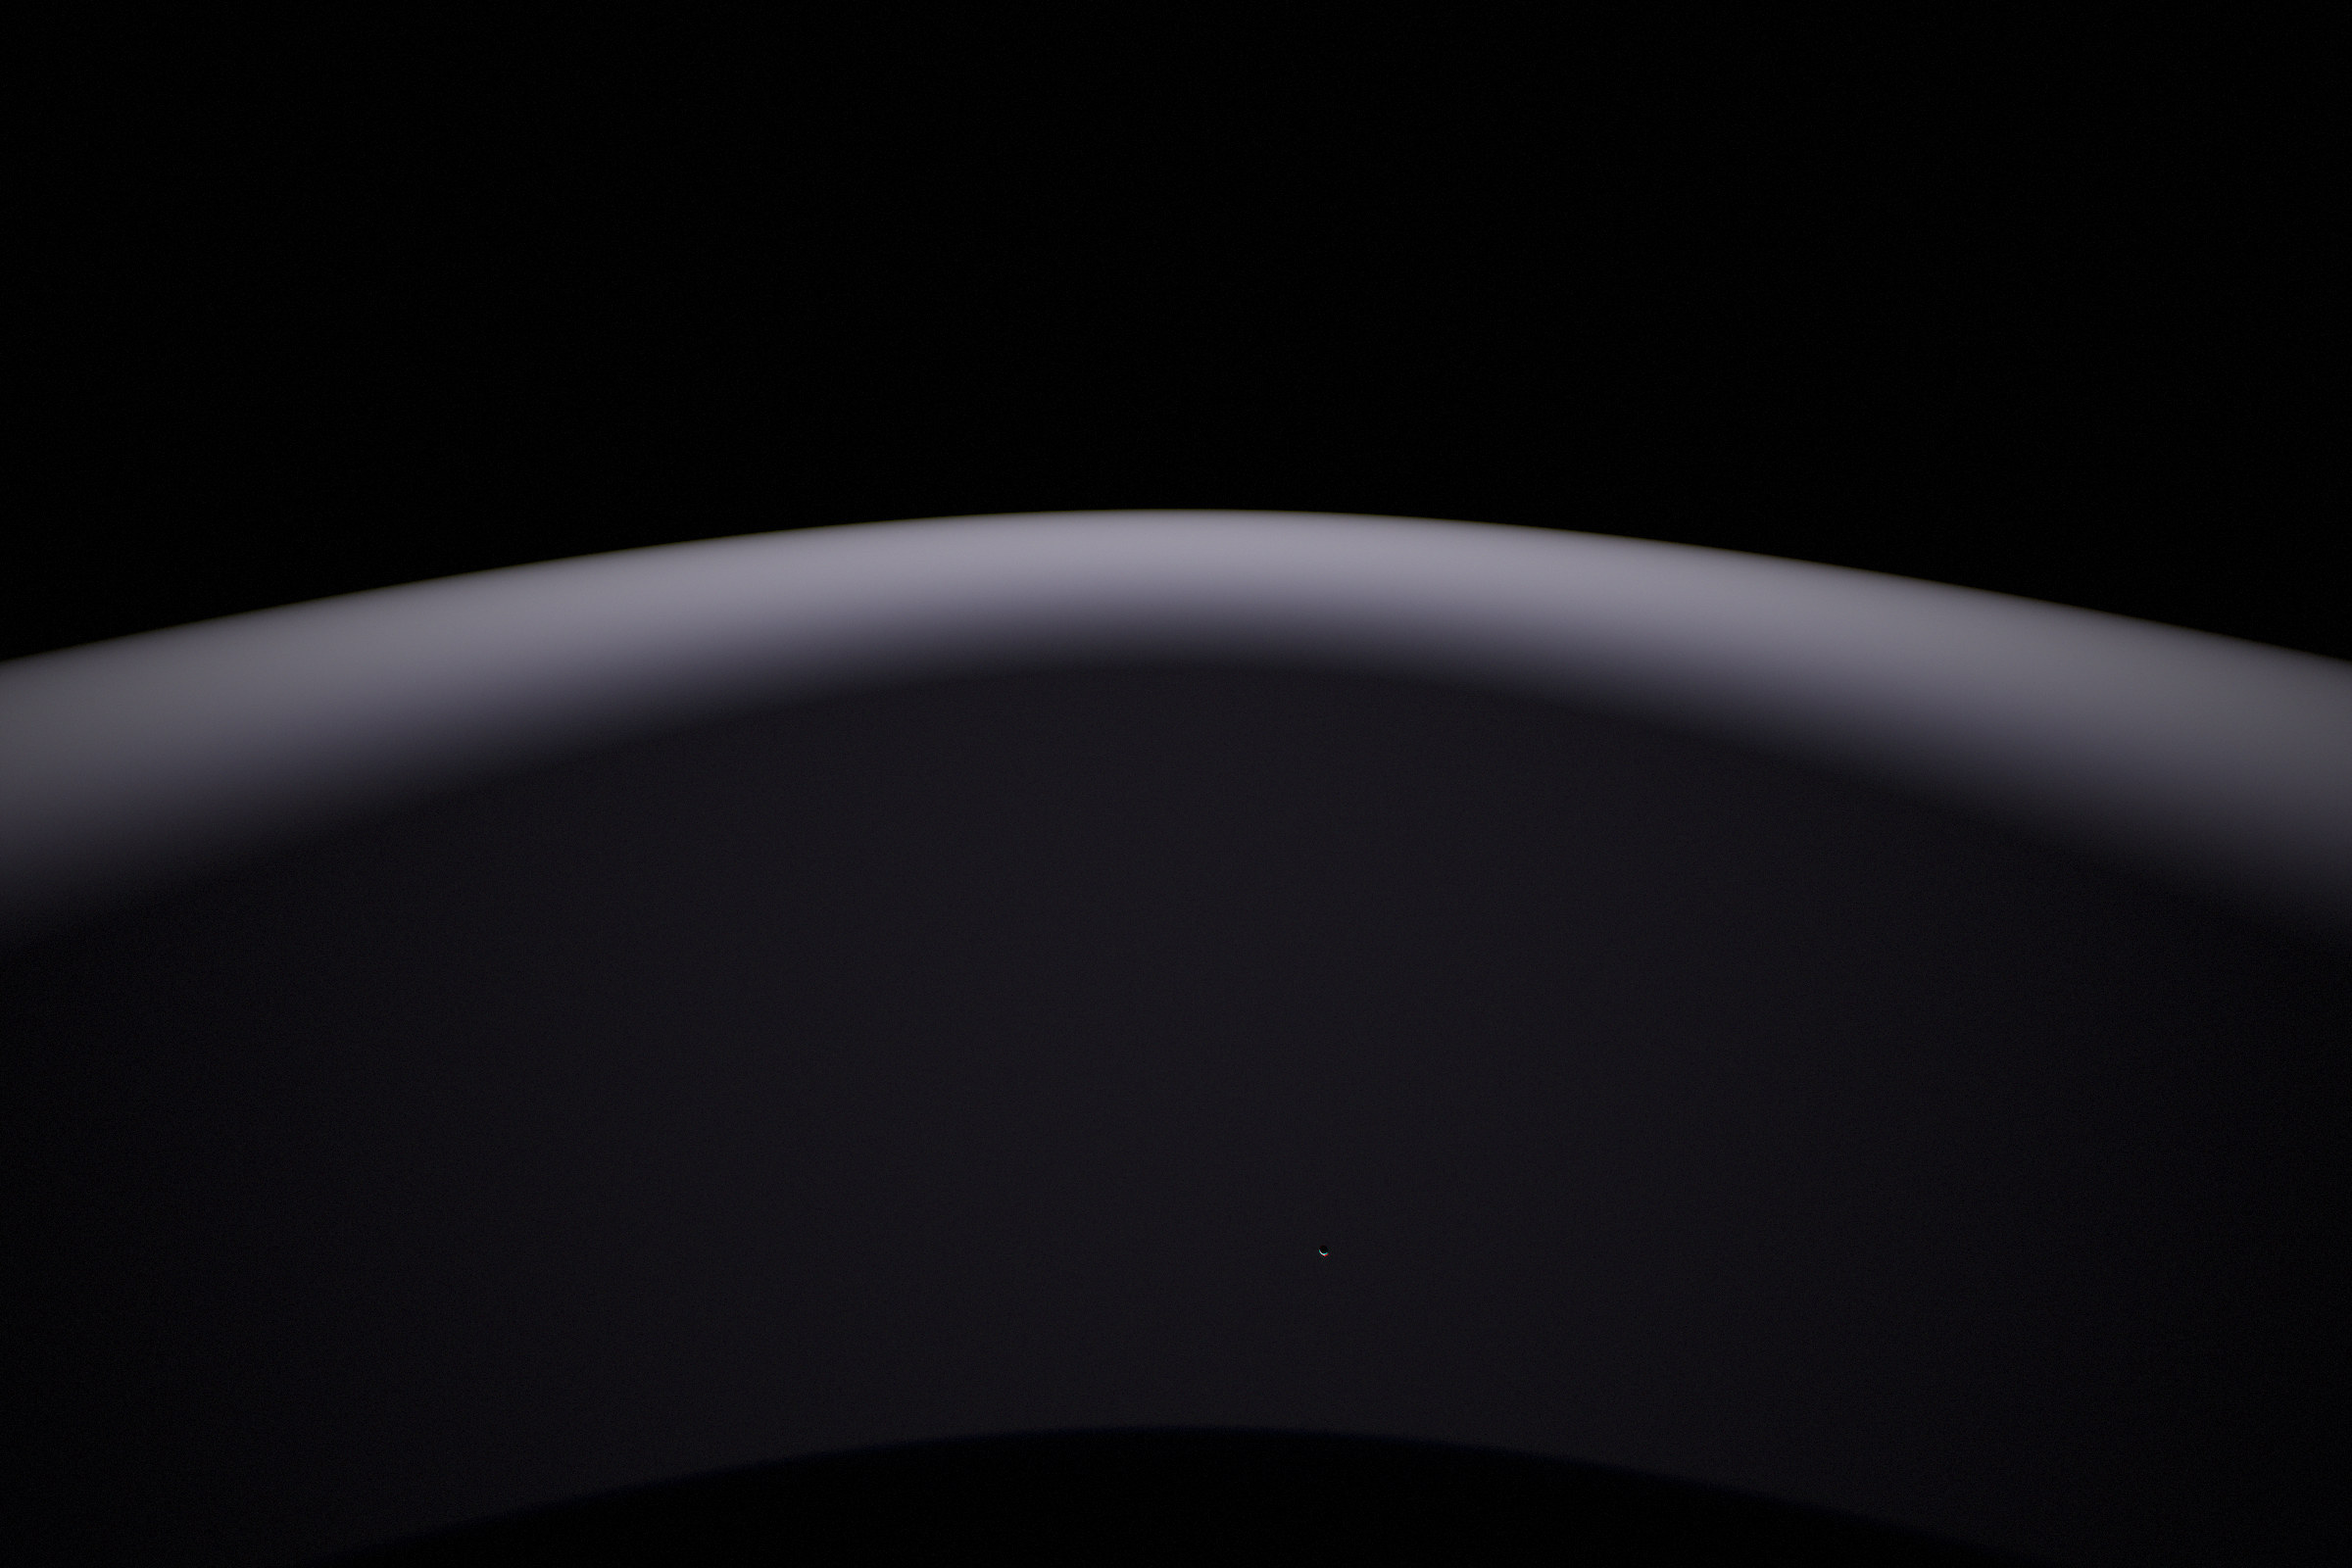
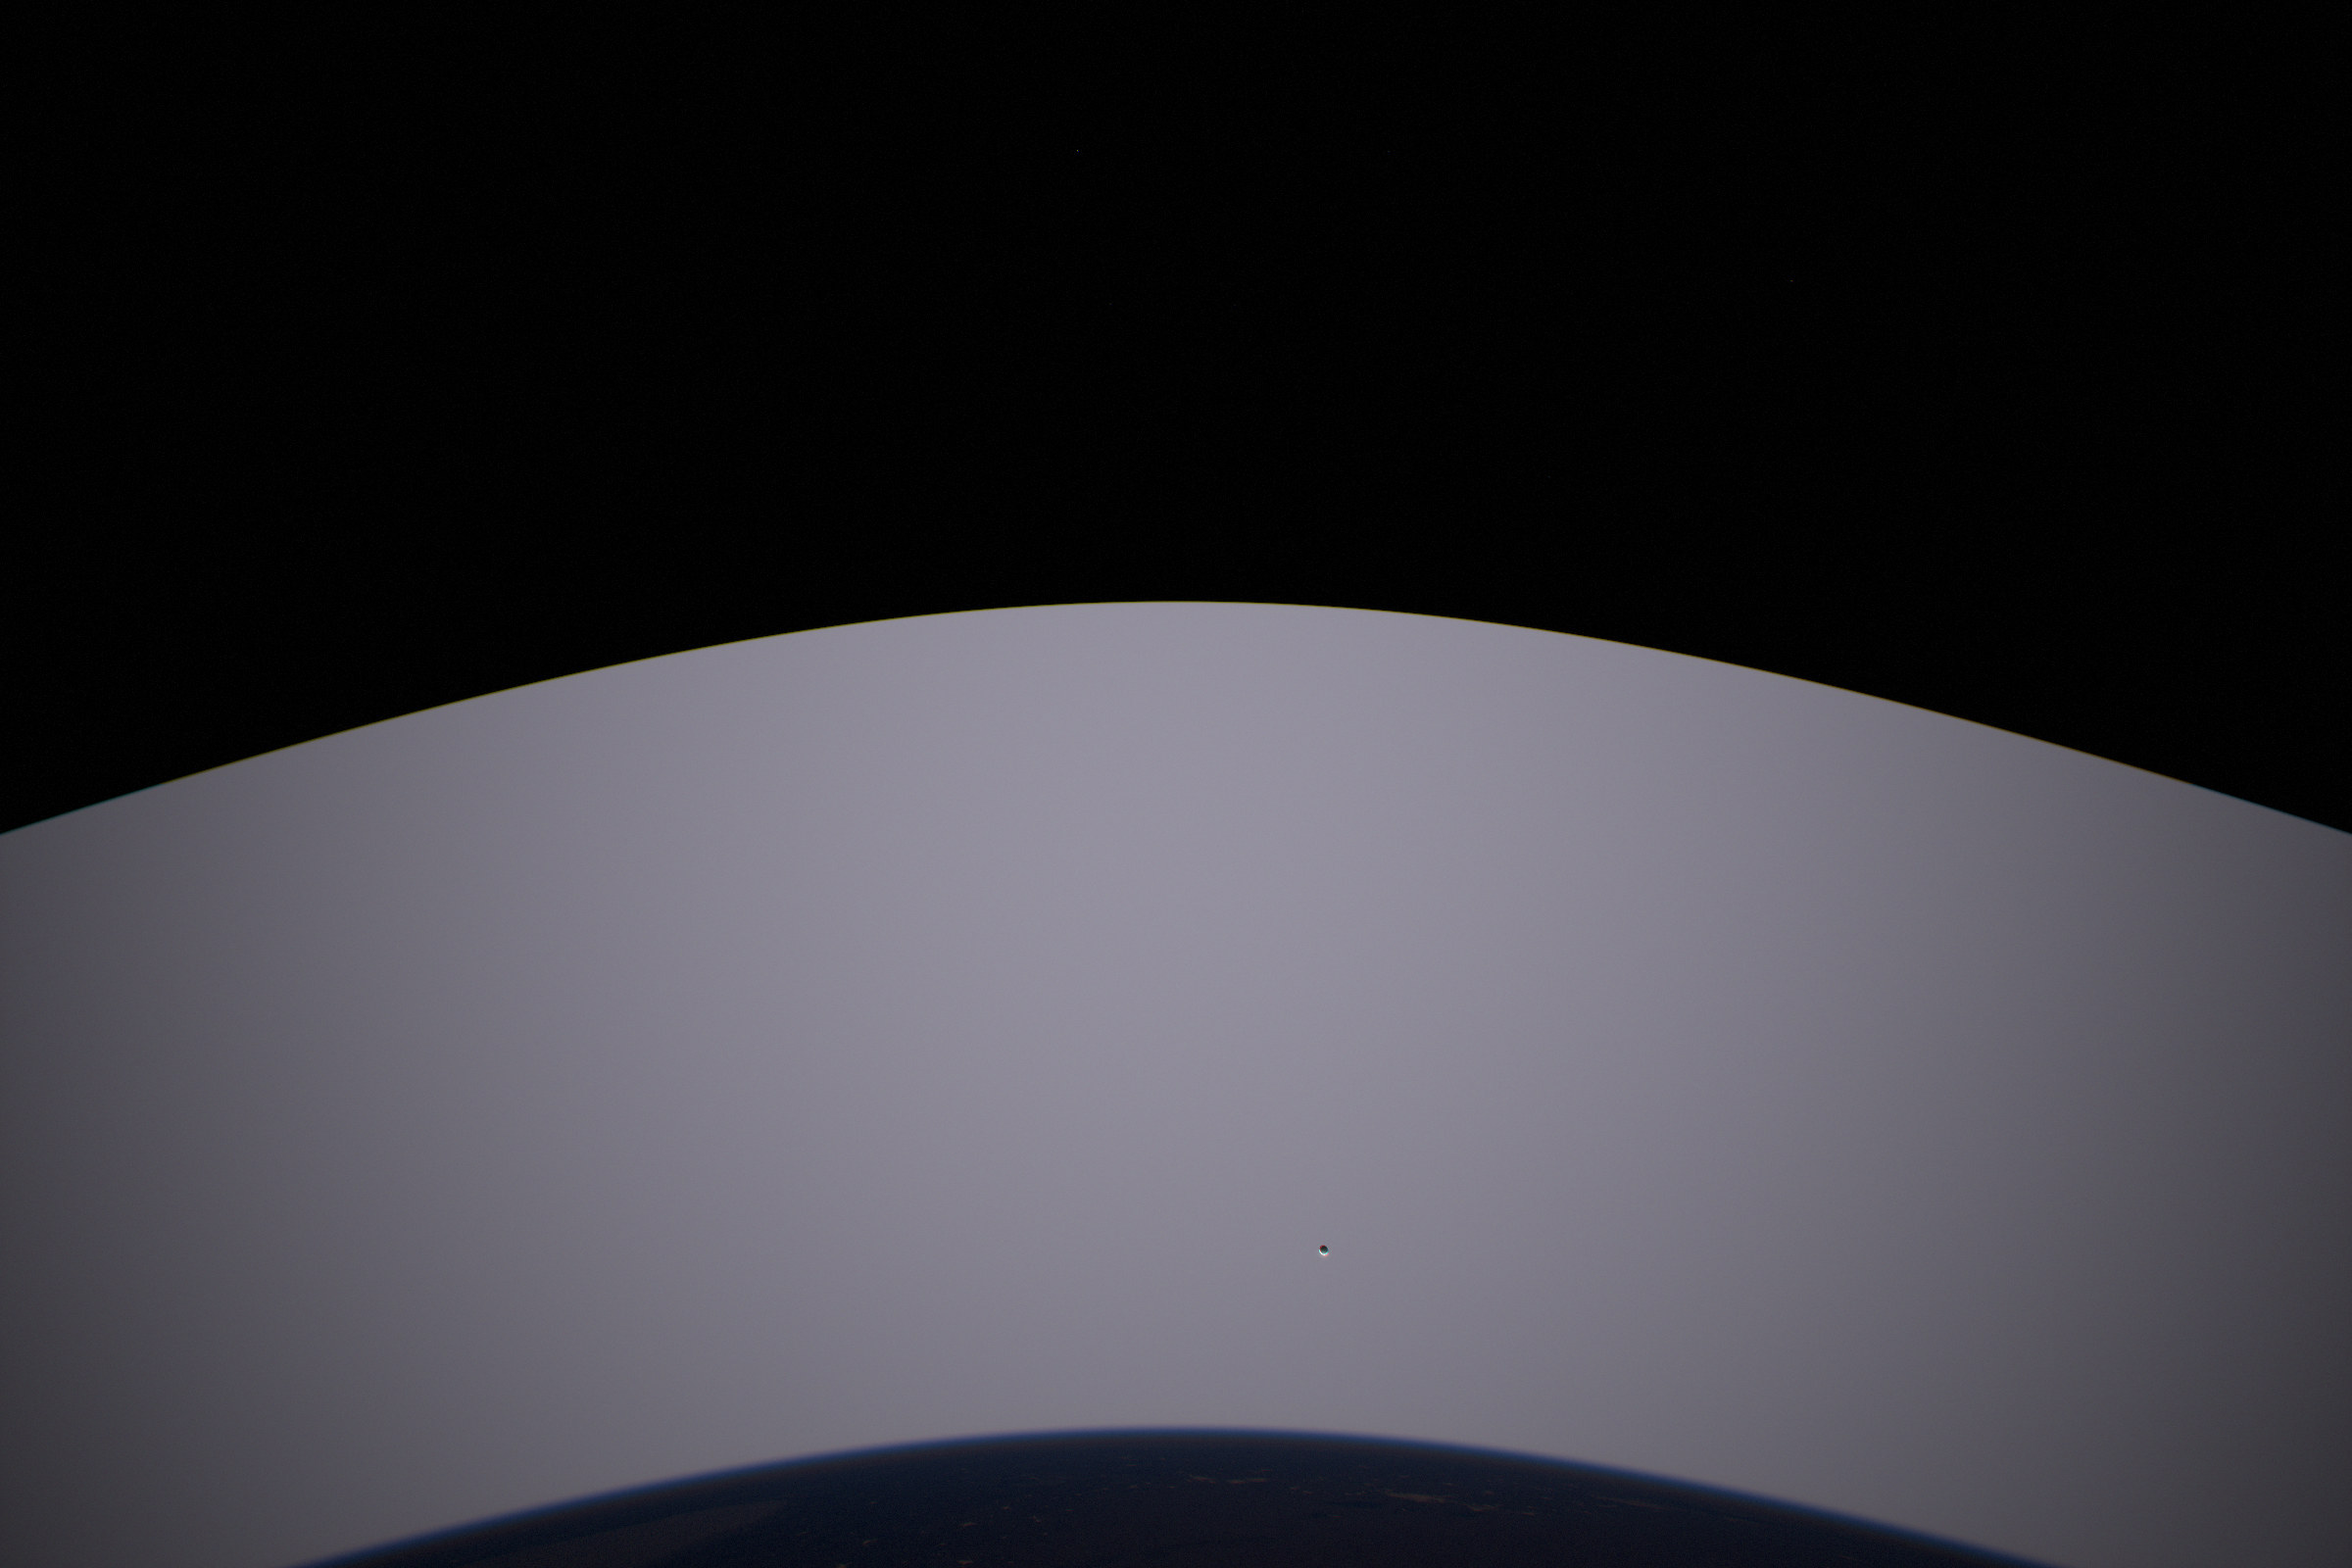
Low-orbit frames for the thin shell; 1 %, half and 99 % share one exposure so the half-built sphere shows as the brightest
Claude-Session: https://claude.ai/code/session_01SbDrhYF14UDXonL1ALY6on

diff --git a/index.html b/index.html
@@ -353,7 +353,7 @@ section.stage { border-top: 1px solid var(--rule); }
     </figure>
     <figure class="wide">
       <div class="plate"><img src="renders/stage-leo-1e-4.jpg" alt="From orbit before dawn: Earth's night side and airglow, a faint glow filling the sky above" width="2400" height="1600" loading="lazy"></div>
-      <figcaption class="col"><b>From low Earth orbit before dawn.</b> Earth's night side at the bottom, its cities lit. Above it, the far side of the sphere fills the sky round the hidden Sun: a pale disc 155° across, whose edge arcs across the top of the frame. Stars still show through it. The bright point is the Moon.<span class="how">400 km above the Nile Delta, 12 mm lens aimed 58° above the Sun, which is 18° below Earth's edge. The Sun and the Moon are placed as on 22 September 2128 at 00:54 UTC, when Earth is 1.004 AU from the Sun and the sphere's limb 77.4° from it. Every orbit frame is exposed for its own disc, here 0.018 cd/m², so the series hides how much the glow grows: 2,500 times from here to half.</span></figcaption>
+      <figcaption class="col"><b>From low Earth orbit before dawn.</b> Earth's night side at the bottom, its cities lit. Above it, the far side of the sphere fills the sky round the hidden Sun: a pale disc 142° across, its sharp edge arcing across the top of the frame. Stars still show through it. The bright point is the Moon.<span class="how">400 km above the Nile Delta, 12 mm lens aimed 58° above the Sun, which is 18° below Earth's edge. The Sun and the Moon are placed as on 22 September 2128 at 00:54 UTC, when Earth is 1.004 AU from the Sun and the shell's edge 71° from it. Exposed for the disc, 0.018 cd/m². The next three frames share one exposure, set for the disc at one per cent.</span></figcaption>
     </figure>
     <div class="col stage-facts" id="facts-1e-4"></div>
     <div class="col prose" id="prose-1e-4"></div>
@@ -367,7 +367,7 @@ section.stage { border-top: 1px solid var(--rule); }
     </figure>
     <figure class="wide">
       <div class="plate"><img src="renders/stage-leo-1e-2.jpg" alt="From orbit: a glowing disc fills the sky above Earth's night side" width="2400" height="1600" loading="lazy"></div>
-      <figcaption class="col"><b>From low Earth orbit.</b> At one per cent the disc is a hundred times brighter. Exposed for it, the stars behind it no longer show, and the cities below barely do. The Moon is a dark dot with a lit edge: its crescent is bright, but its night side, lit only by Earth, is darker than the sky behind it.<span class="how">Same place, moment and lens as the frame before. Exposed for the disc, 1.8 cd/m², 6.6 stops less than at one part in ten thousand.</span></figcaption>
+      <figcaption class="col"><b>From low Earth orbit.</b> At one per cent the disc is a hundred times brighter. Exposed for it, the stars behind it no longer show, and the cities below barely do. The Moon is a dark dot with a lit edge: its crescent is bright, but its night side, lit only by Earth, is darker than the sky behind it.<span class="how">Same place, moment and lens. Exposed for the disc, 1.8 cd/m², 6.6 stops less than at one part in ten thousand; the half-built and 99% frames share this exposure.</span></figcaption>
     </figure>
     <figure class="wide">
       <div class="plate"><img src="renders/stage-space-ir-1e-2.jpg" alt="Thermal image from far away: a faint dark-purple disc round a bright point" width="2400" height="1600" loading="lazy"></div>
@@ -385,7 +385,7 @@ section.stage { border-top: 1px solid var(--rule); }
     </figure>
     <figure class="wide">
       <div class="plate"><img src="renders/stage-leo-0.5.jpg" alt="From orbit: a bright glowing disc over Earth" width="2400" height="1600" loading="lazy"></div>
-      <figcaption class="col"><b>From low Earth orbit.</b> Half caught, and the disc is as bright as it will ever be, 45 cd/m², the brightness of the sky at dusk. Its edge has softened: toward the limb a line of sight crosses less of the sphere, and the glow fades with it. Earth's night side below is faintly lit by it, and the Moon is a dark dot with a thin lit edge.<span class="how">Same place, moment and lens. Exposed for the disc, 4.7 stops less than at one per cent, and 11 stops less than at one part in ten thousand.</span></figcaption>
+      <figcaption class="col"><b>From low Earth orbit.</b> Half caught, at the same exposure as at one per cent: the disc is 25 times brighter, 45 cd/m², as bright as the sky at dusk, and it lights Earth's night side below. The Moon is a dark dot with a thin lit edge.<span class="how">Same place, moment, lens and exposure as at one per cent. The disc's edge stays sharp: the shell is only ~7,000 km thick, so any line of sight that meets it crosses the whole of it.</span></figcaption>
     </figure>
     <figure class="wide">
       <div class="pair">
@@ -406,7 +406,7 @@ section.stage { border-top: 1px solid var(--rule); }
     </figure>
     <figure class="wide">
       <div class="plate"><img src="renders/stage-leo-0.99.jpg" alt="From orbit: a dimmer glowing disc over Earth" width="2400" height="1600" loading="lazy"></div>
-      <figcaption class="col"><b>From low Earth orbit.</b> Most of the disc has dimmed back to the glow of one per cent. A bright ring runs just inside its edge. There a line of sight only grazes the sphere's outermost layers and crosses so few sails that the sphere is still half open, so it shines as brightly as the whole disc did at half. Next to the Moon's crescent, nothing else shows.<span class="how">Same place, moment and lens. Exposed for the ring, 45 cd/m² at its peak, 2° inside the limb and about 5° wide; the disc inside it is 1.8 cd/m², almost five stops darker. The sails are drawn as a random layer: a line crossing a share s of the sphere's depth passes 0.01<sup>s</sup> of the light on each side.</span></figcaption>
+      <figcaption class="col"><b>From low Earth orbit.</b> Ninety-nine per cent, at the same exposure again. The disc has dimmed back to its brightness at one per cent, because the glow goes as f (1 − f). The difference is behind it: of the starlight from beyond the sphere, one part in ten thousand gets through.<span class="how">Same place, moment, lens and exposure. Inside the disc, 1.8 cd/m². Between its edge and the mirror cap's, 71° to 77° from the Sun, only the cap dims the stars, to 1%.</span></figcaption>
     </figure>
     <figure class="wide">
       <div class="plate"><img src="renders/stage-space-ir-0.99.jpg" alt="Thermal image: a bright orange-yellow disc" width="2400" height="1600" loading="lazy"></div>
